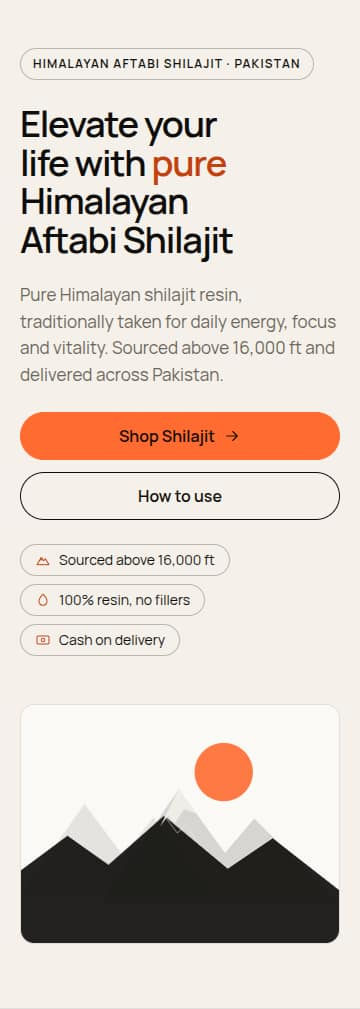
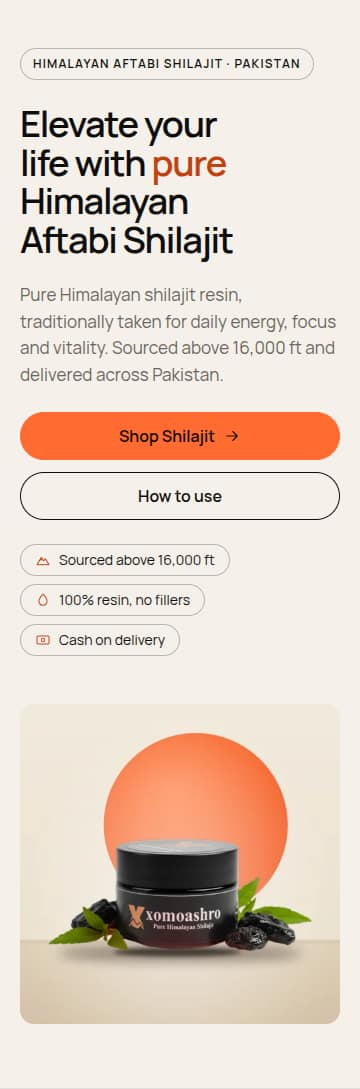
P07: record the picture work, the unusable stock photos and the open questions

diff --git a/theme-context/_build/reports/P07-report.md b/theme-context/_build/reports/P07-report.md
@@ -8,6 +8,8 @@ The homepage is built: 17 new sections, each editable and pre-filled with correc
 
 Three sections show nothing on the store yet, by design, because the data they read does not exist: sizes and bundles (no product), lab report (no report), journal posts (no posts). Their code passes validation and their layout was checked with sample markup, but none of the three has ever run with real data.
 
+**Update, same day, after your feedback on pictures:** the homepage now shows real pictures. Seven were uploaded to the store's Files and set on the hero, statement, benefits, source story and two testimonials. They are the real bottle and mountain photographs from the old site, restaged on this computer. The restaging by OpenAI that you asked for did not run: both keys in `.env` are refused with "no credits remaining".
+
 ## 2. Files created and changed
 
 Theme (`xomoashro-them/`):
@@ -39,7 +41,20 @@ Theme (`xomoashro-them/`):
 | `assets/xo-base.css` | Shared styles for feature cards, numbers, two-column layouts, the drawing, editor notes, small print, jump links |
 | `snippets/xo-image.liquid`, `snippets/xo-icon.liquid`, `sections/xo-styleguide.liquid` | Image preloading for the hero; new icons listed |
 | `locales/en.default.json`, `en.default.schema.json` | Storefront strings and editor labels |
-| `templates/index.json` | The homepage: 17 sections in order |
+| `templates/index.json` | The homepage: 17 sections in order, with the pictures set |
+
+Pictures (added in the update):
+
+| File | What it is |
+|---|---|
+| `sections/xo-problem.liquid` | New: optional background picture with a darkness setting |
+| `sections/xo-benefits-grid.liquid` | New: optional wide picture above the cards |
+| `snippets/xo-image.liquid` | New `decorative` option for pictures that need no description |
+| `_build/tools/compose-homepage-images.mjs` | Restages the real photographs: cuts the bottle out, places it on a warm backdrop with a shadow, saves WebP |
+| `_build/tools/generate-images.mjs`, `image-jobs-homepage.json`, `openai-keys.mjs` | Ready-to-run OpenAI picture generation for six homepage pictures, with switching between the keys in `.env`. Not run yet (no credits) |
+| `_build/tools/upload-files.mjs`, `_build/store-setup/staged-uploads-create.graphql`, `file-create.graphql`, `file-by-id.graphql`, `files-by-name.graphql` | Uploads pictures to the store's Files with alt text; a file with the same name is replaced |
+| `_build/images-generated/` | The seven WebP pictures, `manifest.json` (alt text and source of each) and `uploaded.json` (where each one is in the store) |
+| `.gitignore` | `.env` is now ignored. It was not, and this repository is public |
 
 Build files: `tasks/P07-tasks.md`, `reports/P07-screens/`, status and decisions updates.
 
@@ -64,12 +79,17 @@ Deviations from the phase file:
 | Reviews | `home.md` | Three testimonials, wording unchanged apart from the brand spelling. No star ratings, no photos, no "5,000+" line |
 | Questions | `home.md`, `content-fixes.md` part 4 | Four rewritten answers; "Still have questions?" became the contact box |
 | Partner links | `pages/become-distributor.md`, `become-brand-ambassadar.md` | One line each, spelling corrected |
+| Hero picture | `assets/images/xomoashro_pure_Himaliyan_shilajit.png` (the real bottle with resin and leaves, cut out) | Placed on a warm backdrop with an orange sun and a soft shadow. The bottle itself is not redrawn. A square version is used on phones |
+| Benefits picture | `assets/images/product_shot-1.png` (studio photograph) | Cropped wide and warmed to the page colour. Not enlarged |
+| Statement background | `assets/images/Rectangle-39358.jpg` (mountain range, dark) | Unchanged, darkened by the section |
+| Source story picture | `assets/images/Rectangle-145.jpg` (mountain range) | Made tall by continuing its plain sky upward and its dark ridge downward |
+| Testimonial photos | `assets/images/Abdullah.png`, `Taimoor.png` | Unchanged. Asad has no photo (B8) |
 
 ## 4. Acceptance checks
 
 | Check | Result | Evidence |
 |---|---|---|
-| Change a text and an image in the editor and see it update; a section added fresh arrives with default content | **Partly run** | Text, a block's text, block order and colour tone were changed in the template and the page updated each time, then restored. Every section on the homepage is filled from its own "Add section" defaults. **Not run:** changing an image (no image is uploaded to the store yet, so no section has shown a real image), and the Theme Editor itself (needs your login) |
+| Change a text and an image in the editor and see it update; a section added fresh arrives with default content | **Partly run** | Text, a block's text, block order and colour tone were changed in the template and the page updated each time, then restored. Every section on the homepage is filled from its own "Add section" defaults. Pictures were set through the template and all six load at 360, 768 and 1280px with width, height and alt text; the hero picture loads first, the others when scrolled to. **Not run:** the Theme Editor itself (needs your login) |
 | No Lorem ipsum and no empty blocks | Pass | Page text searched at three widths: no Lorem ipsum, no TODO text. Sections with nothing to show output nothing |
 | Bundle add to cart works and updates the drawer | **Not run** | The store has no product (`/products.json` is empty). The cards use the theme's own add-to-cart code, which already drives the cart drawer, but this has not been seen working here |
 | Theme check 0 errors | Pass | 0 errors; 6 warnings, all in two stock Horizon files, unchanged from earlier phases. Toolkit validation: 24 of 24 files valid |
@@ -90,8 +110,8 @@ Further checks made:
 
 - **B2 (sizes):** nothing fixed in the theme. The cards show whatever sizes the product has.
 - **B3 (lab report):** lab section hidden; no lab claims anywhere on the page.
-- **B8 (5,000+ customers, photos):** claim removed; all three testimonials shown with an initial instead of a photo.
-- **B10 (photography) and B18 (jar):** no product photo used yet. The hero and source story show the mountain drawing until images are uploaded in P12.
+- **B8 (5,000+ customers, photos):** claim removed. Abdullah and Taimoor Khan are shown with their photos from the old site; Asad is shown with an initial until his photo is confirmed.
+- **B10 (photography) and B18 (jar):** the black-lid bottle from the old site is used, restaged locally. No new photography.
 - **B6 (affiliates):** the affiliate link is kept and worded as an application.
 
 ## 6. Open items
@@ -110,7 +130,12 @@ Wording written for the new store, with no source in the old site. Please read a
 Other items:
 
 - **Links to pages that do not exist yet** return "page not found" until P10: `/pages/our-source`, `/pages/how-to-use`, `/pages/wholesale`, `/pages/ambassador`, `/pages/affiliate`.
-- **Images:** none chosen. Upload happens in P12, with your approval.
+- **OpenAI keys:** both keys in `.env` answer "You have no credits remaining" for every picture model (tested 2026-10-07 with four models). Once one account has credit, `node theme-context/_build/tools/generate-images.mjs theme-context/_build/tools/image-jobs-homepage.json` makes six pictures of the real bottle in different settings (decision B23).
+- **Picture sharpness:** the only real bottle photographs are about 340px wide across the bottle, so the hero is slightly soft on sharp screens. This is what the OpenAI step, or a new photograph, would fix.
+- **Two old-site pictures are not shilajit** and are not used: `Purified-Shilajit.png` is a stock photo of black caviar, and `Group-1000001394-min.png` is a stock photo of a jelly dessert. `image-manifest.csv` is corrected.
+- **Mountain photograph:** its source and usage rights are unknown (`image-manifest.csv`). It is used on two sections for now.
+- **How to use and purity checks have no picture:** no real photograph exists for them.
+- **Store Files:** seven pictures were written to the store, at your request. The store login now also has permission for blog content, asked for at the same time; nothing was written with it.
 - **Search-engine question data** is output once per questions section; use the setting on one section per page.
 - **Development theme:** a temporary test template, `templates/page.p07-test.json`, was removed locally but remains on the development theme (file deletion is switched off there on purpose). It is not in the repository or the working copy.
 - **Working copy theme** (158632640684) not updated yet; it follows your approval.

diff --git a/theme-context/_build/decisions.md b/theme-context/_build/decisions.md
@@ -26,6 +26,8 @@ One row per question for the store owner. The runner reads this file before ever
 | B20 | The starter ships 55 locale files besides English and Urdu. New `xo` strings exist only in English, so Theme Check's translation-matching rule is switched off in `.theme-check.yml`. Delete the unused locale files (keep English and Urdu)? | Files stay and the rule stays off until launch. | P24 | open | | |
 | B21 | The store has no product, so add to cart cannot be tested (homepage size cards, cart, product page). Create a clearly named test product ("TEST – do not buy", three sizes, placeholder price), visible only behind the storefront password, and delete it before launch? Or give the real product details (B1, B2) now. | No product is created; add-to-cart checks stay "not run" and P06 cannot be finished. | P06, P07, P08 | open | | |
 | B22 | Wording written for the new homepage with no source in the old site: results timeline, four purity checks, comparison table rows, three how-to-use steps, the answers on cash on delivery and the guarantee, the hero text and the three source-story facts. Approve, or send corrections? | Results timeline stays switched off; the others stay visible with a "Draft reminder" note in the Theme Editor. All are re-checked in P24. | P07, P24 | open | | |
+| B23 | Both OpenAI keys in `.env` are refused with "no credits remaining". Add credit to one of the accounts so the real bottle can be restaged in different settings (six homepage pictures, roughly 2 to 4 US dollars in total at high quality)? | The locally restaged pictures stay. | P07, P08 | open | | |
+| B24 | The Journal section on the homepage is hidden because the store has no blog posts. Import posts now? Two are ready as they are (`what-is-shilajit`, `what-is-shilajit-types-and-benefits`); the other eight need the health-content review in `content-fixes.md` part 6 first. | Posts are imported in P12 after the review; the section stays hidden until then. | P07, P11, P12 | open | | |
 
 ## Decisions already made
 

diff --git a/theme-context/_build/implementation-plan.md b/theme-context/_build/implementation-plan.md
@@ -278,6 +278,14 @@ Not used: Hydrogen (this is a Liquid theme), checkout and customer-account exten
 - From 990px up Horizon scrolls `.page-wrapper`, not the window. Use `position: sticky` and viewport-based observers accordingly. For full-page or element screenshots on desktop, first inject `html,body,.page-wrapper{height:auto!important;overflow:visible!important}`.
 - Horizon's `base.css` styles `input` by element name. Field styles must include the element (`:is(input, textarea, select).xo-field__control`) to take effect.
 - Create a section file before the template that uses it; the live preview uploads files as they are saved and rejects a template that names a missing section.
+- After changing many files at once, do not rely on the live preview to upload them all: on 2026-10-07 it skipped one changed section. Push the changed files to the development theme directly (`shopify theme push --theme <development theme id> --only <file> --nodelete`) before checking the page.
+
+### Pictures
+
+- Content pictures live in the store's Files, never in `assets/`. `tools/upload-files.mjs` uploads everything listed in `images-generated/manifest.json` with its alt text and replaces a file of the same name, so a better version of a picture can be swapped in without touching the theme. Settings refer to a picture as `shopify://shop_images/<file name>`.
+- `tools/compose-homepage-images.mjs` restages the real photographs locally. `tools/generate-images.mjs` makes pictures with OpenAI from a jobs file and switches between the keys in `.env` when one is refused. Never print or commit the keys; `.env` is git-ignored.
+- Never redraw the bottle's label by hand or accept a generated picture in which the logo or lettering has changed. Check each generated picture against the real bottle before uploading.
+- Check what an old-site picture actually shows before using it: two files named as shilajit were stock photos of caviar and of a jelly dessert.
 
 ### Liquid
 

diff --git a/theme-context/_build/status.md b/theme-context/_build/status.md
@@ -60,3 +60,4 @@ Newest first. One line per event: date, phase, what happened.
 - 2026-10-06 Store login completed by the owner. `run_setup.py` created 19 metafield definitions and the `lab_report` metaobject definition and saved four store facts (support email, WhatsApp number, guarantee 7 days, delivery up to 5 days). Read-back confirmed. Working copy theme 158632640684 updated. P01 finished; waiting for the owner to push, open and merge the pull request.
 - 2026-10-07 P01 merged by the owner (pull request #6). P07 started on branch `phase/P07-homepage`, ahead of P06 because the store has no product to test the cart with.
 - 2026-10-07 P07 built: 17 homepage sections and `templates/index.json`. One acceptance check not run (add to cart from the size cards: the store has no product), so the phase is awaiting the owner's approval. New questions B21 (test product) and B22 (draft wording) added.
+- 2026-10-07 P07 update after the owner's feedback ("use actual pictures"): seven pictures restaged from the real old-site photographs, uploaded to the store's Files and set on the homepage. OpenAI restaging not run: both keys in `.env` report no credits. `.env` added to `.gitignore` (it was not ignored; the repository is public). Two old-site pictures found to be stock photos of other things and dropped. New questions B23 (OpenAI credit) and B24 (import blog posts now).
